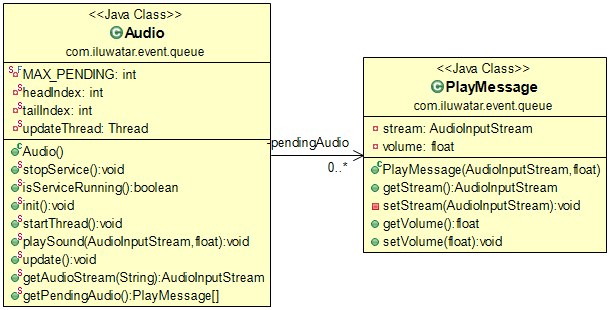
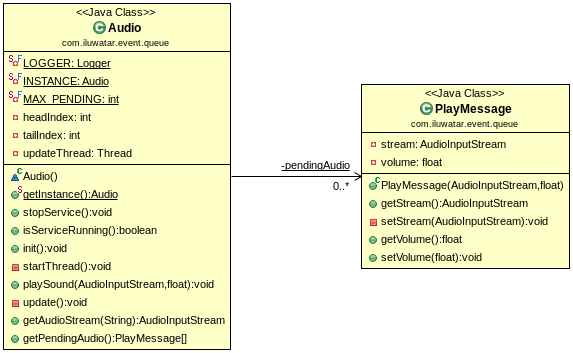
Refactored Event Queue (#806)
* 1) Test cases were not stopping AudioService before ending test case 2) Changed Audio to be a good singleton, previously because of Audio being bad singleton, test cases which were using static methods could have caused intermittent failures. 3) Made some other refactorings as well

* Removed sonar issue and converted Audio to eager singleton for simplicity

* Updated class diagram PNG

diff --git a/event-queue/src/main/java/com/iluwatar/event/queue/Audio.java b/event-queue/src/main/java/com/iluwatar/event/queue/Audio.java
@@ -23,6 +23,9 @@
 
 package com.iluwatar.event.queue;
 
+import org.slf4j.Logger;
+import org.slf4j.LoggerFactory;
+
 import java.io.File;
 import java.io.IOException;
 
@@ -38,49 +41,56 @@ import javax.sound.sampled.UnsupportedAudioFileException;
  *
  */
 public class Audio {
+  private static final Logger LOGGER = LoggerFactory.getLogger(Audio.class);
+  private static final Audio INSTANCE = new Audio();
 
   private static final int MAX_PENDING = 16;
 
-  private static int headIndex;
+  private int headIndex;
 
-  private static int tailIndex;
+  private int tailIndex;
 
-  private static Thread updateThread = null;
+  private volatile Thread updateThread = null;
 
-  private static PlayMessage[] pendingAudio = new PlayMessage[MAX_PENDING];
+  private PlayMessage[] pendingAudio = new PlayMessage[MAX_PENDING];
+
+  // Visible only for testing purposes
+  Audio() {
+
+  }
+
+  public static Audio getInstance() {
+    return INSTANCE;
+  }
 
   /**
-   * This method stops the Update Method's thread. 
+   * This method stops the Update Method's thread and waits till service stops.
    */
-  public static synchronized void stopService() {
+  public synchronized void stopService() throws InterruptedException {
     if (updateThread != null) {
       updateThread.interrupt();
     }
+    updateThread.join();
+    updateThread = null;
   }
   
   /**
    * This method check the Update Method's thread is started.
    * @return boolean
    */
-  public static synchronized boolean isServiceRunning() {
-    if (updateThread != null && updateThread.isAlive() ) {
-      return true;
-    } else {
-      return false;
-    }
+  public synchronized boolean isServiceRunning() {
+    return updateThread != null && updateThread.isAlive();
   }
 
   /**
    * Starts the thread for the Update Method pattern if it was not started previously.
    * Also when the thread is is ready initializes the indexes of the queue 
    */
-  public static void init() {
+  public void init() {
     if (updateThread == null) {
-      updateThread = new Thread(new Runnable() {
-        public void run() {
-          while (!Thread.currentThread().isInterrupted()) {
-            Audio.update();
-          }
+      updateThread = new Thread(() -> {
+        while (!Thread.currentThread().isInterrupted()) {
+          update();
         }
       });
     }
@@ -90,7 +100,7 @@ public class Audio {
   /**
    * This is a synchronized thread starter
    */
-  public static synchronized void startThread() {
+  private synchronized void startThread() {
     if (!updateThread.isAlive()) {
       updateThread.start();
       headIndex = 0;
@@ -103,7 +113,7 @@ public class Audio {
    * @param stream is the AudioInputStream for the method
    * @param volume is the level of the audio's volume 
    */
-  public static void playSound(AudioInputStream stream, float volume) {
+  public void playSound(AudioInputStream stream, float volume) {
     init();
     // Walk the pending requests.
     for (int i = headIndex; i != tailIndex; i = (i + 1) % MAX_PENDING) {
@@ -123,7 +133,7 @@ public class Audio {
    * This method uses the Update Method pattern.
    * It takes the audio from the queue and plays it
    */
-  public static void update() {
+  private void update() {
     // If there are no pending requests, do nothing.
     if (headIndex == tailIndex) {
       return;
@@ -136,13 +146,11 @@ public class Audio {
       clip.open(audioStream);
       clip.start();
     } catch (LineUnavailableException e) {
-      System.err.println("Error occoured while loading the audio: The line is unavailable");
-      e.printStackTrace();
+      LOGGER.trace("Error occoured while loading the audio: The line is unavailable", e);
     } catch (IOException e) {
-      System.err.println("Input/Output error while loading the audio");
-      e.printStackTrace();
+      LOGGER.trace("Input/Output error while loading the audio", e);
     } catch (IllegalArgumentException e) {
-      System.err.println("The system doesn't support the sound: " + e.getMessage());
+      LOGGER.trace("The system doesn't support the sound: " + e.getMessage(), e);
     }
   }
 
@@ -153,7 +161,7 @@ public class Audio {
    * @throws UnsupportedAudioFileException when the audio file is not supported 
    * @throws IOException when the file is not readable
    */
-  public static AudioInputStream getAudioStream(String filePath) 
+  public AudioInputStream getAudioStream(String filePath)
       throws UnsupportedAudioFileException, IOException {
     return AudioSystem.getAudioInputStream(new File(filePath).getAbsoluteFile());
   }
@@ -162,7 +170,7 @@ public class Audio {
    * Returns with the message array of the queue 
    * @return PlayMessage[]
    */
-  public static PlayMessage[] getPendingAudio() {
+  public PlayMessage[] getPendingAudio() {
     return pendingAudio;
   }
 

diff --git a/event-queue/src/test/java/com/iluwatar/event/queue/AudioTest.java b/event-queue/src/test/java/com/iluwatar/event/queue/AudioTest.java
@@ -23,6 +23,7 @@
 
 package com.iluwatar.event.queue;
 
+import org.junit.jupiter.api.BeforeEach;
 import org.junit.jupiter.api.Test;
 
 import javax.sound.sampled.UnsupportedAudioFileException;
@@ -39,6 +40,12 @@ import static org.junit.jupiter.api.Assertions.assertTrue;
  */
 public class AudioTest {
 
+  private Audio audio;
+
+  @BeforeEach
+  void createAudioInstance() {
+    audio = new Audio();
+  }
   /**
    * Test here that the playSound method works correctly
    * @throws UnsupportedAudioFileException when the audio file is not supported 
@@ -47,13 +54,15 @@ public class AudioTest {
    */
   @Test
   public void testPlaySound() throws UnsupportedAudioFileException, IOException, InterruptedException {
-    Audio.playSound(Audio.getAudioStream("./etc/Bass-Drum-1.wav"), -10.0f);
+    audio.playSound(audio.getAudioStream("./etc/Bass-Drum-1.wav"), -10.0f);
     // test that service is started
-    assertTrue(Audio.isServiceRunning());
+    assertTrue(audio.isServiceRunning());
     // adding a small pause to be sure that the sound is ended
     Thread.sleep(5000);
+
+    audio.stopService();
     // test that service is finished
-    assertFalse(!Audio.isServiceRunning());
+    assertFalse(audio.isServiceRunning());
   }
 
   /**
@@ -64,16 +73,18 @@ public class AudioTest {
    */
   @Test
   public void testQueue() throws UnsupportedAudioFileException, IOException, InterruptedException {
-    Audio.playSound(Audio.getAudioStream("./etc/Bass-Drum-1.aif"), -10.0f);
-    Audio.playSound(Audio.getAudioStream("./etc/Bass-Drum-1.aif"), -10.0f);
-    Audio.playSound(Audio.getAudioStream("./etc/Bass-Drum-1.aif"), -10.0f);
-    assertTrue(Audio.getPendingAudio().length > 0);
+    audio.playSound(audio.getAudioStream("./etc/Bass-Drum-1.aif"), -10.0f);
+    audio.playSound(audio.getAudioStream("./etc/Bass-Drum-1.aif"), -10.0f);
+    audio.playSound(audio.getAudioStream("./etc/Bass-Drum-1.aif"), -10.0f);
+    assertTrue(audio.getPendingAudio().length > 0);
     // test that service is started
-    assertTrue(Audio.isServiceRunning());
+    assertTrue(audio.isServiceRunning());
     // adding a small pause to be sure that the sound is ended
     Thread.sleep(10000);
+
+    audio.stopService();
     // test that service is finished
-    assertFalse(!Audio.isServiceRunning());
+    assertFalse(audio.isServiceRunning());
   }
 
 }

diff --git a/event-queue/src/main/java/com/iluwatar/event/queue/App.java b/event-queue/src/main/java/com/iluwatar/event/queue/App.java
@@ -47,13 +47,15 @@ public class App {
    * @throws IOException when there is a problem with the audio file loading
    * @throws UnsupportedAudioFileException  when the loaded audio file is unsupported 
    */
-  public static void main(String[] args) throws UnsupportedAudioFileException, IOException {
-    Audio.playSound(Audio.getAudioStream("./etc/Bass-Drum-1.wav"), -10.0f);
-    Audio.playSound(Audio.getAudioStream("./etc/Closed-Hi-Hat-1.wav"), -8.0f);
+  public static void main(String[] args) throws UnsupportedAudioFileException, IOException, InterruptedException {
+    Audio audio = Audio.getInstance();
+    audio.playSound(audio.getAudioStream("./etc/Bass-Drum-1.wav"), -10.0f);
+    audio.playSound(audio.getAudioStream("./etc/Closed-Hi-Hat-1.wav"), -8.0f);
     
     System.out.println("Press Enter key to stop the program...");
-    BufferedReader br = new BufferedReader(new InputStreamReader(System.in));
-    br.read();
-    Audio.stopService();
+    try (BufferedReader br = new BufferedReader(new InputStreamReader(System.in))) {
+      br.read();
+    }
+    audio.stopService();
   }
 }
